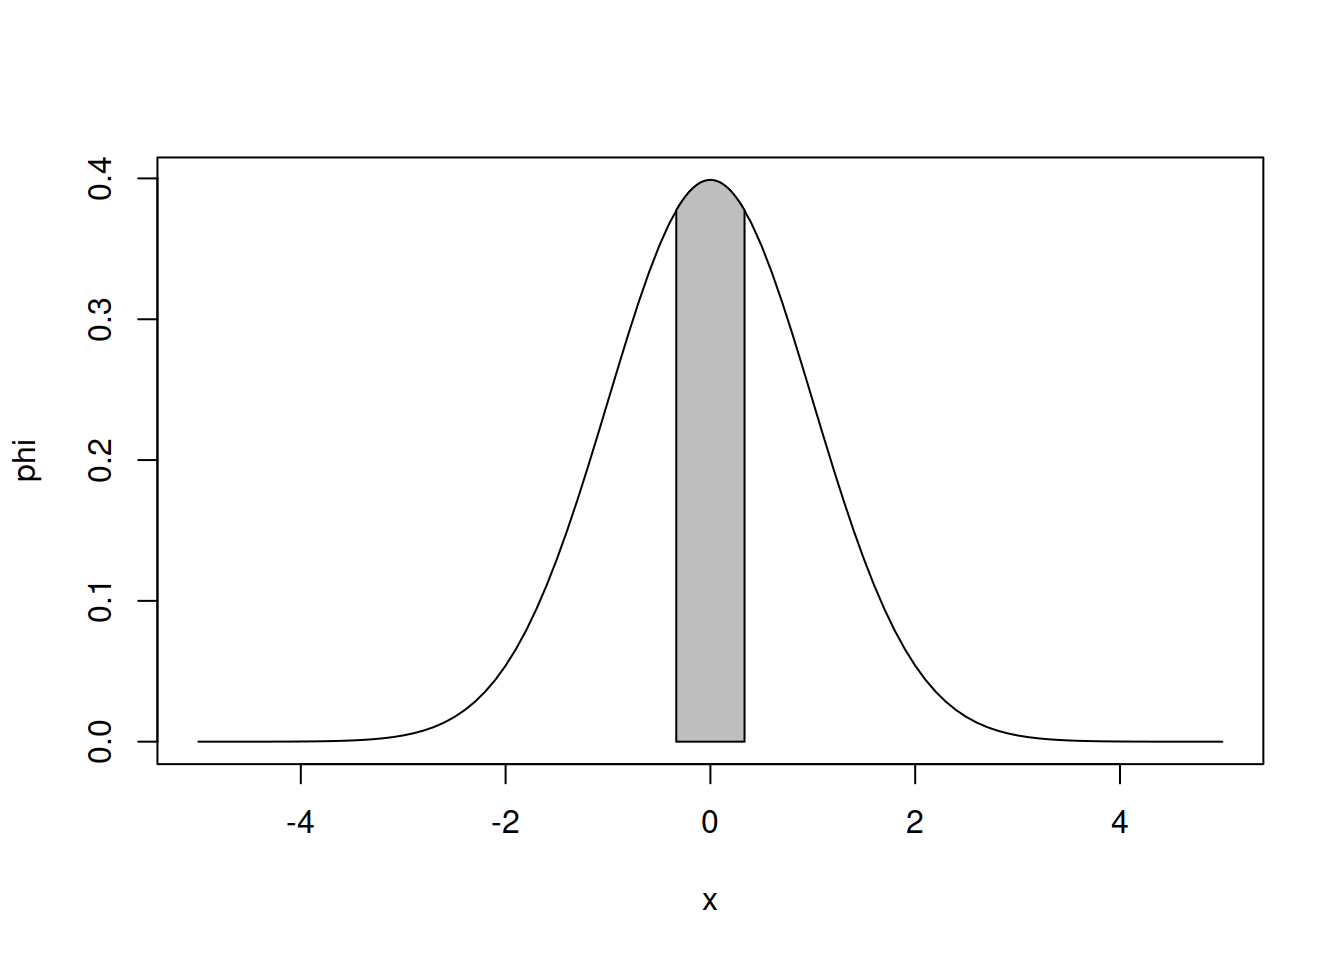
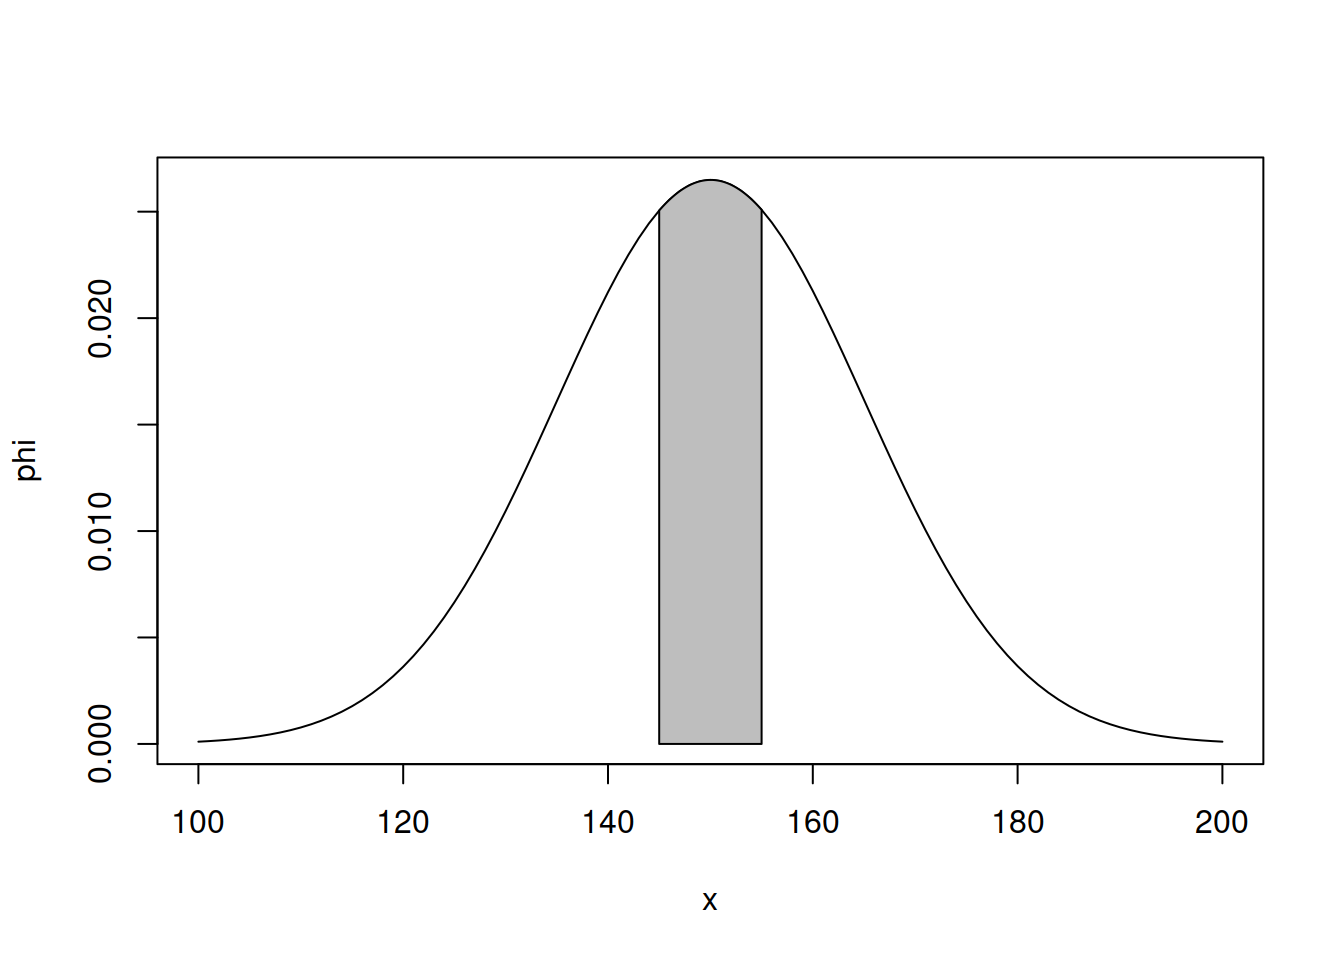
improving

diff --git a/quiz5/quiz5.html b/quiz5/quiz5.html
@@ -164,21 +164,21 @@ D = 0.1167, p-value = 0.08619</code></pre>
 <section id="b-probabilidade-de-que-uma-chamada-demore-entre-125-e-150-segundos." class="level4">
 <h4 class="anchored" data-anchor-id="b-probabilidade-de-que-uma-chamada-demore-entre-125-e-150-segundos.">b) Probabilidade de que uma chamada demore entre 125 e 150 segundos.</h4>
 <div class="cell">
-<div class="sourceCode cell-code" id="cb10"><pre class="sourceCode r code-with-copy"><code class="sourceCode r"><span id="cb10-1"><a href="#cb10-1" aria-hidden="true" tabindex="-1"></a>media <span class="ot">&lt;-</span> <span class="dv">150</span></span>
-<span id="cb10-2"><a href="#cb10-2" aria-hidden="true" tabindex="-1"></a>sigma <span class="ot">&lt;-</span> <span class="dv">15</span></span>
+<div class="sourceCode cell-code" id="cb10"><pre class="sourceCode r code-with-copy"><code class="sourceCode r"><span id="cb10-1"><a href="#cb10-1" aria-hidden="true" tabindex="-1"></a>media <span class="ot">&lt;-</span> <span class="fu">mean</span>(dados)</span>
+<span id="cb10-2"><a href="#cb10-2" aria-hidden="true" tabindex="-1"></a>sigma <span class="ot">&lt;-</span> <span class="fu">sd</span>(dados)</span>
 <span id="cb10-3"><a href="#cb10-3" aria-hidden="true" tabindex="-1"></a>z1 <span class="ot">&lt;-</span> (<span class="dv">125</span>  <span class="sc">-</span> media) <span class="sc">/</span> sigma</span>
 <span id="cb10-4"><a href="#cb10-4" aria-hidden="true" tabindex="-1"></a>z2 <span class="ot">&lt;-</span> (<span class="dv">150</span>  <span class="sc">-</span> media) <span class="sc">/</span> sigma</span>
 <span id="cb10-5"><a href="#cb10-5" aria-hidden="true" tabindex="-1"></a>probabilidade <span class="ot">&lt;-</span> <span class="fu">pnorm</span>(z2) <span class="sc">-</span> <span class="fu">pnorm</span>(z1)</span>
 <span id="cb10-6"><a href="#cb10-6" aria-hidden="true" tabindex="-1"></a>probabilidade</span></code><button title="Copiar para a área de transferência" class="code-copy-button"><i class="bi"></i></button></pre></div>
 <div class="cell-output cell-output-stdout">
-<pre><code>[1] 0.4522096</code></pre>
+<pre><code>[1] 0.4509603</code></pre>
 </div>
-<div class="sourceCode cell-code" id="cb12"><pre class="sourceCode r code-with-copy"><code class="sourceCode r"><span id="cb12-1"><a href="#cb12-1" aria-hidden="true" tabindex="-1"></a>phi <span class="ot">&lt;-</span> <span class="cf">function</span>(x, <span class="at">mi =</span> <span class="dv">0</span>, <span class="at">sigma =</span> <span class="dv">1</span>) { </span>
-<span id="cb12-2"><a href="#cb12-2" aria-hidden="true" tabindex="-1"></a>  (<span class="dv">1</span><span class="sc">/</span>(sigma<span class="sc">*</span><span class="fu">sqrt</span>(<span class="dv">2</span><span class="sc">*</span>pi))) <span class="sc">*</span><span class="fu">exp</span>((<span class="sc">-</span><span class="dv">1</span><span class="sc">/</span><span class="dv">2</span>)<span class="sc">*</span>((x<span class="sc">-</span>mi)<span class="sc">/</span>sigma)<span class="sc">^</span><span class="dv">2</span>) </span>
+<div class="sourceCode cell-code" id="cb12"><pre class="sourceCode r code-with-copy"><code class="sourceCode r"><span id="cb12-1"><a href="#cb12-1" aria-hidden="true" tabindex="-1"></a>phi <span class="ot">&lt;-</span> <span class="cf">function</span>(x) { </span>
+<span id="cb12-2"><a href="#cb12-2" aria-hidden="true" tabindex="-1"></a>  (<span class="dv">1</span><span class="sc">/</span>(sigma<span class="sc">*</span><span class="fu">sqrt</span>(<span class="dv">2</span><span class="sc">*</span>pi))) <span class="sc">*</span><span class="fu">exp</span>((<span class="sc">-</span><span class="dv">1</span><span class="sc">/</span><span class="dv">2</span>)<span class="sc">*</span>((x<span class="sc">-</span>media)<span class="sc">/</span>sigma)<span class="sc">^</span><span class="dv">2</span>) </span>
 <span id="cb12-3"><a href="#cb12-3" aria-hidden="true" tabindex="-1"></a>}</span>
-<span id="cb12-4"><a href="#cb12-4" aria-hidden="true" tabindex="-1"></a>x <span class="ot">=</span> <span class="fu">c</span>(<span class="dv">100</span>, <span class="fu">seq</span>(<span class="dv">100</span>, <span class="dv">200</span>, <span class="at">l=</span><span class="dv">100</span>), <span class="dv">200</span>)</span>
+<span id="cb12-4"><a href="#cb12-4" aria-hidden="true" tabindex="-1"></a>x <span class="ot">=</span> <span class="fu">c</span>(<span class="dv">125</span>, <span class="fu">seq</span>(<span class="dv">125</span>, <span class="dv">150</span>, <span class="at">l=</span><span class="dv">100</span>), <span class="dv">150</span>)</span>
 <span id="cb12-5"><a href="#cb12-5" aria-hidden="true" tabindex="-1"></a>y <span class="ot">=</span> <span class="fu">c</span>(<span class="dv">0</span>, <span class="fu">phi</span>(<span class="fu">seq</span>(<span class="dv">125</span>, <span class="dv">150</span>, <span class="at">l=</span><span class="dv">100</span>)), <span class="dv">0</span>)</span>
-<span id="cb12-6"><a href="#cb12-6" aria-hidden="true" tabindex="-1"></a><span class="fu">plot</span>(phi, <span class="sc">-</span><span class="dv">5</span>, <span class="dv">5</span>)</span>
+<span id="cb12-6"><a href="#cb12-6" aria-hidden="true" tabindex="-1"></a><span class="fu">plot</span>(phi, <span class="dv">100</span>, <span class="dv">200</span>)</span>
 <span id="cb12-7"><a href="#cb12-7" aria-hidden="true" tabindex="-1"></a><span class="fu">polygon</span>(<span class="at">x =</span> x, <span class="at">y =</span> y, <span class="at">col=</span><span class="st">"gray"</span>)</span></code><button title="Copiar para a área de transferência" class="code-copy-button"><i class="bi"></i></button></pre></div>
 <div class="cell-output-display">
 <p><img src="quiz5_files/figure-html/unnamed-chunk-6-1.png" class="img-fluid" width="672"></p>
@@ -189,70 +189,60 @@ D = 0.1167, p-value = 0.08619</code></pre>
 <section id="c-probabilidade-de-que-uma-chamada-demore-menos-de-125-segundos." class="level4">
 <h4 class="anchored" data-anchor-id="c-probabilidade-de-que-uma-chamada-demore-menos-de-125-segundos.">c) Probabilidade de que uma chamada demore menos de 125 segundos.</h4>
 <div class="cell">
-<div class="sourceCode cell-code" id="cb13"><pre class="sourceCode r code-with-copy"><code class="sourceCode r"><span id="cb13-1"><a href="#cb13-1" aria-hidden="true" tabindex="-1"></a>z1 <span class="ot">&lt;-</span> (<span class="dv">125</span>  <span class="sc">-</span> media) <span class="sc">/</span> sigma</span>
-<span id="cb13-2"><a href="#cb13-2" aria-hidden="true" tabindex="-1"></a>probabilidade <span class="ot">&lt;-</span> <span class="fu">pnorm</span>(z1)</span>
-<span id="cb13-3"><a href="#cb13-3" aria-hidden="true" tabindex="-1"></a>probabilidade</span></code><button title="Copiar para a área de transferência" class="code-copy-button"><i class="bi"></i></button></pre></div>
+<div class="sourceCode cell-code" id="cb13"><pre class="sourceCode r code-with-copy"><code class="sourceCode r"><span id="cb13-1"><a href="#cb13-1" aria-hidden="true" tabindex="-1"></a>probabilidade <span class="ot">&lt;-</span> <span class="fu">integrate</span>(phi, <span class="sc">-</span><span class="cn">Inf</span>, <span class="dv">125</span>)</span>
+<span id="cb13-2"><a href="#cb13-2" aria-hidden="true" tabindex="-1"></a>probabilidade</span></code><button title="Copiar para a área de transferência" class="code-copy-button"><i class="bi"></i></button></pre></div>
 <div class="cell-output cell-output-stdout">
-<pre><code>[1] 0.04779035</code></pre>
+<pre><code>0.04824296 with absolute error &lt; 9e-05</code></pre>
 </div>
-<div class="sourceCode cell-code" id="cb15"><pre class="sourceCode r code-with-copy"><code class="sourceCode r"><span id="cb15-1"><a href="#cb15-1" aria-hidden="true" tabindex="-1"></a>x <span class="ot">=</span> <span class="fu">c</span>(<span class="sc">-</span><span class="dv">5</span>, <span class="fu">seq</span>(<span class="sc">-</span><span class="dv">5</span>, z1, <span class="at">l=</span><span class="dv">100</span>), z1)</span>
-<span id="cb15-2"><a href="#cb15-2" aria-hidden="true" tabindex="-1"></a>y <span class="ot">=</span> <span class="fu">c</span>(<span class="dv">0</span>, <span class="fu">phi</span>(<span class="fu">seq</span>(<span class="sc">-</span><span class="dv">5</span>, z1, <span class="at">l=</span><span class="dv">100</span>)), <span class="dv">0</span>)</span>
-<span id="cb15-3"><a href="#cb15-3" aria-hidden="true" tabindex="-1"></a><span class="fu">plot</span>(phi, <span class="sc">-</span><span class="dv">5</span>, <span class="dv">5</span>)</span>
+<div class="sourceCode cell-code" id="cb15"><pre class="sourceCode r code-with-copy"><code class="sourceCode r"><span id="cb15-1"><a href="#cb15-1" aria-hidden="true" tabindex="-1"></a>x <span class="ot">=</span> <span class="fu">c</span>(<span class="dv">100</span>, <span class="fu">seq</span>(<span class="dv">100</span>, <span class="dv">125</span>, <span class="at">l=</span><span class="dv">100</span>), <span class="dv">125</span>)</span>
+<span id="cb15-2"><a href="#cb15-2" aria-hidden="true" tabindex="-1"></a>y <span class="ot">=</span> <span class="fu">c</span>(<span class="dv">0</span>, <span class="fu">phi</span>(<span class="fu">seq</span>(<span class="dv">100</span>, <span class="dv">125</span>, <span class="at">l=</span><span class="dv">100</span>)), <span class="dv">0</span>)</span>
+<span id="cb15-3"><a href="#cb15-3" aria-hidden="true" tabindex="-1"></a><span class="fu">plot</span>(phi, <span class="dv">100</span>, <span class="dv">200</span>)</span>
 <span id="cb15-4"><a href="#cb15-4" aria-hidden="true" tabindex="-1"></a><span class="fu">polygon</span>(<span class="at">x =</span> x, <span class="at">y =</span> y, <span class="at">col=</span><span class="st">"gray"</span>)</span></code><button title="Copiar para a área de transferência" class="code-copy-button"><i class="bi"></i></button></pre></div>
 <div class="cell-output-display">
 <p><img src="quiz5_files/figure-html/unnamed-chunk-7-1.png" class="img-fluid" width="672"></p>
 </div>
 </div>
+<p>** A probabilidade de que uma chamada demore menos de 125 segundos é de 4,824296%.**</p>
 </section>
 <section id="d-probabilidade-de-que-uma-chamada-demore-entre-145-e-155-segundos." class="level4">
 <h4 class="anchored" data-anchor-id="d-probabilidade-de-que-uma-chamada-demore-entre-145-e-155-segundos.">d) Probabilidade de que uma chamada demore entre 145 e 155 segundos.</h4>
 <div class="cell">
-<div class="sourceCode cell-code" id="cb16"><pre class="sourceCode r code-with-copy"><code class="sourceCode r"><span id="cb16-1"><a href="#cb16-1" aria-hidden="true" tabindex="-1"></a>media <span class="ot">&lt;-</span> <span class="dv">150</span></span>
-<span id="cb16-2"><a href="#cb16-2" aria-hidden="true" tabindex="-1"></a>sigma <span class="ot">&lt;-</span> <span class="dv">15</span></span>
-<span id="cb16-3"><a href="#cb16-3" aria-hidden="true" tabindex="-1"></a>z1 <span class="ot">&lt;-</span> (<span class="dv">145</span>  <span class="sc">-</span> media) <span class="sc">/</span> sigma</span>
-<span id="cb16-4"><a href="#cb16-4" aria-hidden="true" tabindex="-1"></a>z2 <span class="ot">&lt;-</span> (<span class="dv">155</span>  <span class="sc">-</span> media) <span class="sc">/</span> sigma</span>
-<span id="cb16-5"><a href="#cb16-5" aria-hidden="true" tabindex="-1"></a>probabilidade <span class="ot">&lt;-</span> <span class="fu">pnorm</span>(z2) <span class="sc">-</span> <span class="fu">pnorm</span>(z1)</span>
-<span id="cb16-6"><a href="#cb16-6" aria-hidden="true" tabindex="-1"></a>probabilidade</span></code><button title="Copiar para a área de transferência" class="code-copy-button"><i class="bi"></i></button></pre></div>
+<div class="sourceCode cell-code" id="cb16"><pre class="sourceCode r code-with-copy"><code class="sourceCode r"><span id="cb16-1"><a href="#cb16-1" aria-hidden="true" tabindex="-1"></a>z1 <span class="ot">&lt;-</span> (<span class="dv">145</span>  <span class="sc">-</span> media) <span class="sc">/</span> sigma</span>
+<span id="cb16-2"><a href="#cb16-2" aria-hidden="true" tabindex="-1"></a>z2 <span class="ot">&lt;-</span> (<span class="dv">155</span>  <span class="sc">-</span> media) <span class="sc">/</span> sigma</span>
+<span id="cb16-3"><a href="#cb16-3" aria-hidden="true" tabindex="-1"></a>probabilidade <span class="ot">&lt;-</span> <span class="fu">pnorm</span>(z2) <span class="sc">-</span> <span class="fu">pnorm</span>(z1)</span>
+<span id="cb16-4"><a href="#cb16-4" aria-hidden="true" tabindex="-1"></a>probabilidade</span></code><button title="Copiar para a área de transferência" class="code-copy-button"><i class="bi"></i></button></pre></div>
 <div class="cell-output cell-output-stdout">
-<pre><code>[1] 0.2611173</code></pre>
+<pre><code>[1] 0.2601309</code></pre>
 </div>
-<div class="sourceCode cell-code" id="cb18"><pre class="sourceCode r code-with-copy"><code class="sourceCode r"><span id="cb18-1"><a href="#cb18-1" aria-hidden="true" tabindex="-1"></a>phi <span class="ot">&lt;-</span> <span class="cf">function</span>(x, <span class="at">mi =</span> <span class="dv">0</span>, <span class="at">sigma =</span> <span class="dv">1</span>) { </span>
-<span id="cb18-2"><a href="#cb18-2" aria-hidden="true" tabindex="-1"></a>  (<span class="dv">1</span><span class="sc">/</span>(sigma<span class="sc">*</span><span class="fu">sqrt</span>(<span class="dv">2</span><span class="sc">*</span>pi))) <span class="sc">*</span><span class="fu">exp</span>((<span class="sc">-</span><span class="dv">1</span><span class="sc">/</span><span class="dv">2</span>)<span class="sc">*</span>((x<span class="sc">-</span>mi)<span class="sc">/</span>sigma)<span class="sc">^</span><span class="dv">2</span>) </span>
-<span id="cb18-3"><a href="#cb18-3" aria-hidden="true" tabindex="-1"></a>}</span>
-<span id="cb18-4"><a href="#cb18-4" aria-hidden="true" tabindex="-1"></a></span>
-<span id="cb18-5"><a href="#cb18-5" aria-hidden="true" tabindex="-1"></a>x <span class="ot">=</span> <span class="fu">c</span>(z1, <span class="fu">seq</span>(z1, z2, <span class="at">l=</span><span class="dv">100</span>), z2)</span>
-<span id="cb18-6"><a href="#cb18-6" aria-hidden="true" tabindex="-1"></a>y <span class="ot">=</span> <span class="fu">c</span>(<span class="dv">0</span>, <span class="fu">phi</span>(<span class="fu">seq</span>(z1, z2, <span class="at">l=</span><span class="dv">100</span>)), <span class="dv">0</span>)</span>
-<span id="cb18-7"><a href="#cb18-7" aria-hidden="true" tabindex="-1"></a><span class="fu">plot</span>(phi, <span class="sc">-</span><span class="dv">5</span>, <span class="dv">5</span>)</span>
-<span id="cb18-8"><a href="#cb18-8" aria-hidden="true" tabindex="-1"></a><span class="fu">polygon</span>(<span class="at">x =</span> x, <span class="at">y =</span> y, <span class="at">col=</span><span class="st">"gray"</span>)</span></code><button title="Copiar para a área de transferência" class="code-copy-button"><i class="bi"></i></button></pre></div>
+<div class="sourceCode cell-code" id="cb18"><pre class="sourceCode r code-with-copy"><code class="sourceCode r"><span id="cb18-1"><a href="#cb18-1" aria-hidden="true" tabindex="-1"></a>x <span class="ot">=</span> <span class="fu">c</span>(<span class="dv">145</span>, <span class="fu">seq</span>(<span class="dv">145</span>, <span class="dv">155</span>, <span class="at">l=</span><span class="dv">100</span>), <span class="dv">155</span>)</span>
+<span id="cb18-2"><a href="#cb18-2" aria-hidden="true" tabindex="-1"></a>y <span class="ot">=</span> <span class="fu">c</span>(<span class="dv">0</span>, <span class="fu">phi</span>(<span class="fu">seq</span>(<span class="dv">145</span>, <span class="dv">155</span>, <span class="at">l=</span><span class="dv">100</span>)), <span class="dv">0</span>)</span>
+<span id="cb18-3"><a href="#cb18-3" aria-hidden="true" tabindex="-1"></a><span class="fu">plot</span>(phi, <span class="dv">100</span>, <span class="dv">200</span>)</span>
+<span id="cb18-4"><a href="#cb18-4" aria-hidden="true" tabindex="-1"></a><span class="fu">polygon</span>(<span class="at">x =</span> x, <span class="at">y =</span> y, <span class="at">col=</span><span class="st">"gray"</span>)</span></code><button title="Copiar para a área de transferência" class="code-copy-button"><i class="bi"></i></button></pre></div>
 <div class="cell-output-display">
 <p><img src="quiz5_files/figure-html/unnamed-chunk-8-1.png" class="img-fluid" width="672"></p>
 </div>
 </div>
+<p><strong>A probabilidade de que uma chamada demore entre 145 e 155 segundos é de 26,01309%.</strong></p>
 </section>
 <section id="e-probabilidade-de-que-uma-chamada-demore-entre-160-e-165-segundos." class="level4">
 <h4 class="anchored" data-anchor-id="e-probabilidade-de-que-uma-chamada-demore-entre-160-e-165-segundos.">e) Probabilidade de que uma chamada demore entre 160 e 165 segundos.</h4>
 <div class="cell">
-<div class="sourceCode cell-code" id="cb19"><pre class="sourceCode r code-with-copy"><code class="sourceCode r"><span id="cb19-1"><a href="#cb19-1" aria-hidden="true" tabindex="-1"></a>media <span class="ot">&lt;-</span> <span class="dv">150</span></span>
-<span id="cb19-2"><a href="#cb19-2" aria-hidden="true" tabindex="-1"></a>sigma <span class="ot">&lt;-</span> <span class="dv">15</span></span>
-<span id="cb19-3"><a href="#cb19-3" aria-hidden="true" tabindex="-1"></a>z1 <span class="ot">&lt;-</span> (<span class="dv">160</span>  <span class="sc">-</span> media) <span class="sc">/</span> sigma</span>
-<span id="cb19-4"><a href="#cb19-4" aria-hidden="true" tabindex="-1"></a>z2 <span class="ot">&lt;-</span> (<span class="dv">165</span>  <span class="sc">-</span> media) <span class="sc">/</span> sigma</span>
-<span id="cb19-5"><a href="#cb19-5" aria-hidden="true" tabindex="-1"></a>probabilidade <span class="ot">&lt;-</span> <span class="fu">pnorm</span>(z2) <span class="sc">-</span> <span class="fu">pnorm</span>(z1)</span>
-<span id="cb19-6"><a href="#cb19-6" aria-hidden="true" tabindex="-1"></a>probabilidade</span></code><button title="Copiar para a área de transferência" class="code-copy-button"><i class="bi"></i></button></pre></div>
+<div class="sourceCode cell-code" id="cb19"><pre class="sourceCode r code-with-copy"><code class="sourceCode r"><span id="cb19-1"><a href="#cb19-1" aria-hidden="true" tabindex="-1"></a>z1 <span class="ot">&lt;-</span> (<span class="dv">160</span>  <span class="sc">-</span> media) <span class="sc">/</span> sigma</span>
+<span id="cb19-2"><a href="#cb19-2" aria-hidden="true" tabindex="-1"></a>z2 <span class="ot">&lt;-</span> (<span class="dv">165</span>  <span class="sc">-</span> media) <span class="sc">/</span> sigma</span>
+<span id="cb19-3"><a href="#cb19-3" aria-hidden="true" tabindex="-1"></a>probabilidade <span class="ot">&lt;-</span> <span class="fu">pnorm</span>(z2) <span class="sc">-</span> <span class="fu">pnorm</span>(z1)</span>
+<span id="cb19-4"><a href="#cb19-4" aria-hidden="true" tabindex="-1"></a>probabilidade</span></code><button title="Copiar para a área de transferência" class="code-copy-button"><i class="bi"></i></button></pre></div>
 <div class="cell-output cell-output-stdout">
-<pre><code>[1] 0.09383728</code></pre>
+<pre><code>[1] 0.09387641</code></pre>
 </div>
-<div class="sourceCode cell-code" id="cb21"><pre class="sourceCode r code-with-copy"><code class="sourceCode r"><span id="cb21-1"><a href="#cb21-1" aria-hidden="true" tabindex="-1"></a>phi <span class="ot">&lt;-</span> <span class="cf">function</span>(x, <span class="at">mi =</span> <span class="dv">0</span>, <span class="at">sigma =</span> <span class="dv">1</span>) { </span>
-<span id="cb21-2"><a href="#cb21-2" aria-hidden="true" tabindex="-1"></a>  (<span class="dv">1</span><span class="sc">/</span>(sigma<span class="sc">*</span><span class="fu">sqrt</span>(<span class="dv">2</span><span class="sc">*</span>pi))) <span class="sc">*</span><span class="fu">exp</span>((<span class="sc">-</span><span class="dv">1</span><span class="sc">/</span><span class="dv">2</span>)<span class="sc">*</span>((x<span class="sc">-</span>mi)<span class="sc">/</span>sigma)<span class="sc">^</span><span class="dv">2</span>) </span>
-<span id="cb21-3"><a href="#cb21-3" aria-hidden="true" tabindex="-1"></a>}</span>
-<span id="cb21-4"><a href="#cb21-4" aria-hidden="true" tabindex="-1"></a></span>
-<span id="cb21-5"><a href="#cb21-5" aria-hidden="true" tabindex="-1"></a>x <span class="ot">=</span> <span class="fu">c</span>(z1, <span class="fu">seq</span>(z1, z2, <span class="at">l=</span><span class="dv">100</span>), z2)</span>
-<span id="cb21-6"><a href="#cb21-6" aria-hidden="true" tabindex="-1"></a>y <span class="ot">=</span> <span class="fu">c</span>(<span class="dv">0</span>, <span class="fu">phi</span>(<span class="fu">seq</span>(z1, z2, <span class="at">l=</span><span class="dv">100</span>)), <span class="dv">0</span>)</span>
-<span id="cb21-7"><a href="#cb21-7" aria-hidden="true" tabindex="-1"></a><span class="fu">plot</span>(phi, <span class="sc">-</span><span class="dv">5</span>, <span class="dv">5</span>)</span>
-<span id="cb21-8"><a href="#cb21-8" aria-hidden="true" tabindex="-1"></a><span class="fu">polygon</span>(<span class="at">x =</span> x, <span class="at">y =</span> y, <span class="at">col=</span><span class="st">"gray"</span>)</span></code><button title="Copiar para a área de transferência" class="code-copy-button"><i class="bi"></i></button></pre></div>
+<div class="sourceCode cell-code" id="cb21"><pre class="sourceCode r code-with-copy"><code class="sourceCode r"><span id="cb21-1"><a href="#cb21-1" aria-hidden="true" tabindex="-1"></a>x <span class="ot">=</span> <span class="fu">c</span>(<span class="dv">160</span>, <span class="fu">seq</span>(<span class="dv">160</span>, <span class="dv">165</span>, <span class="at">l=</span><span class="dv">100</span>), <span class="dv">165</span>)</span>
+<span id="cb21-2"><a href="#cb21-2" aria-hidden="true" tabindex="-1"></a>y <span class="ot">=</span> <span class="fu">c</span>(<span class="dv">0</span>, <span class="fu">phi</span>(<span class="fu">seq</span>(<span class="dv">160</span>, <span class="dv">165</span>, <span class="at">l=</span><span class="dv">100</span>)), <span class="dv">0</span>)</span>
+<span id="cb21-3"><a href="#cb21-3" aria-hidden="true" tabindex="-1"></a><span class="fu">plot</span>(phi, <span class="dv">100</span>, <span class="dv">200</span>)</span>
+<span id="cb21-4"><a href="#cb21-4" aria-hidden="true" tabindex="-1"></a><span class="fu">polygon</span>(<span class="at">x =</span> x, <span class="at">y =</span> y, <span class="at">col=</span><span class="st">"gray"</span>)</span></code><button title="Copiar para a área de transferência" class="code-copy-button"><i class="bi"></i></button></pre></div>
 <div class="cell-output-display">
 <p><img src="quiz5_files/figure-html/unnamed-chunk-9-1.png" class="img-fluid" width="672"></p>
 </div>
 </div>
+<p>A probabilidade de que uma chamada demore entre 160 e 165 segundos é de 9,387641%,</p>
 </section>
 </section>
 <section id="identificação-de-distribuição" class="level2">
